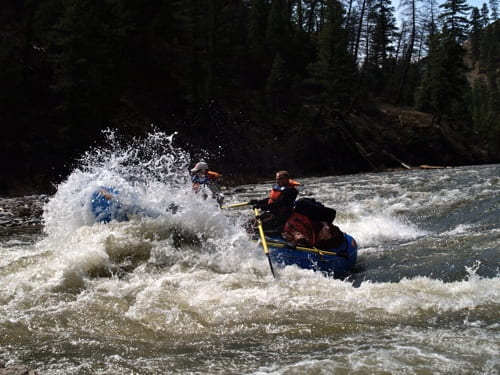
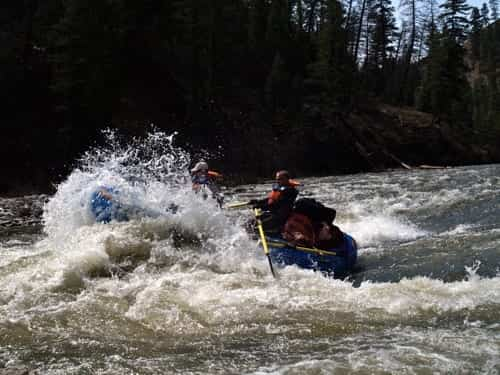
went through and reduced image sizes

diff --git a/wwr/about.html b/wwr/about.html
@@ -26,10 +26,10 @@
     </header>
     <main>
         <div class="hero">
-            <img src="images/hero-main-image.jpg" alt="Rafting">
+            <img src="images/hero-main-image2.jpg" alt="Rafting" width="100%">
             <h1 class="bangers-regular">Splash Whitewater Rafting</h1>
             <article>
-                <img src="images/happy-client.jpg" alt="Girl Rafting" width="250">
+                <img src="images/happy-client1.jpg" alt="Girl Rafting" width="250">
                 <p class="pt-sans-narrow-regular">Our Purpose: At Splash Whitewater Rafting, we are all about good times, wild rivers, and real adventure. Our mission is to help people unplug, paddle hard, and make awesome memories—while keeping things safe, fun, and friendly every step of the way.</p>
             </article>
         </div>
@@ -37,7 +37,7 @@
             <h2 class="sedgwick-ave-regular">History</h2>
             <div class="flex">
                 <p class="pt-sans-narrow-regular">From the beginning, we've been committed to providing safe, unforgettable experiences on the water, with a focus on environmental responsibility and creating lasting memories. Over the years, we have expanded our offered adventures, all while keeping our dedication to safety and the thrill of adventure at the forefront.</p>
-                <img src="images/history-image.jpg" alt="Our History" width="200">
+                <img src="images/history-image1.jpg" alt="Our History" width="200">
                 <p class="pt-sans-narrow-regular">Today, Splash Whitewater Rafting is proud to be a trusted name in outdoor adventure, welcoming rafters of all skill levels to explore the beauty and power of the river. We are still driven by the same passion that started it all—making the river experience accessible, exciting, and unforgettable for everyone.</p>    
             </div>
         </section>
@@ -67,7 +67,7 @@
             </div>
         </section>
     </main>
-    <footer class="pt-sans-narrow-regular">
+    <footer>
             <p class="text">&copy; 2025 Splash Whitewater Rafting</p>
         <div class="align">
             <a href="https://www.facebook.com">

diff --git a/wwr/index.html b/wwr/index.html
@@ -26,7 +26,7 @@
     </header>
     <main>
         <div class="hero">
-            <img src="images/hero-main-image.jpg" alt="Rafting">
+            <img src="images/hero-main-image2.jpg" alt="Rafting" width="100%">
             <h1 class="bangers-regular">Splash Whitewater Rafting - Adventure is Calling!</h1>
         </div>
         <section class="margin-work">
@@ -42,7 +42,7 @@
                     <label for="email" class="sedgwick-ave-regular">Email:</label>
                     <input type="email" id="email" name="email">
                 </fieldset>
-                <button type="submit" class="sedgwick-ave-regular">Sign Me Up!</button>
+                <button type="submit" class="sedgwick-ave-regular">Keep Me Informed!</button>
             </form> 
         </section>
         <section>

diff --git a/wwr/styles/rafting.css b/wwr/styles/rafting.css
@@ -40,7 +40,6 @@ nav a {
 }
 
 .hero main img {
-    display: block;
     width: 100%;
     height: auto;
 }
@@ -76,7 +75,6 @@ main section {
 
 section h2 {
     background-color: rgba(253, 255, 208, 0.7);
-    border: 2px solid #ccc;
     color: var(--primary-color);
     margin: auto;
     padding-top: 10px;
@@ -106,7 +104,6 @@ footer {
     padding-left: 10px;
     padding-right: 10px;
     background-color: var(--accent-color2);
-    border: 2px solid #ccc;
     margin-top: 15px;
 }
 
